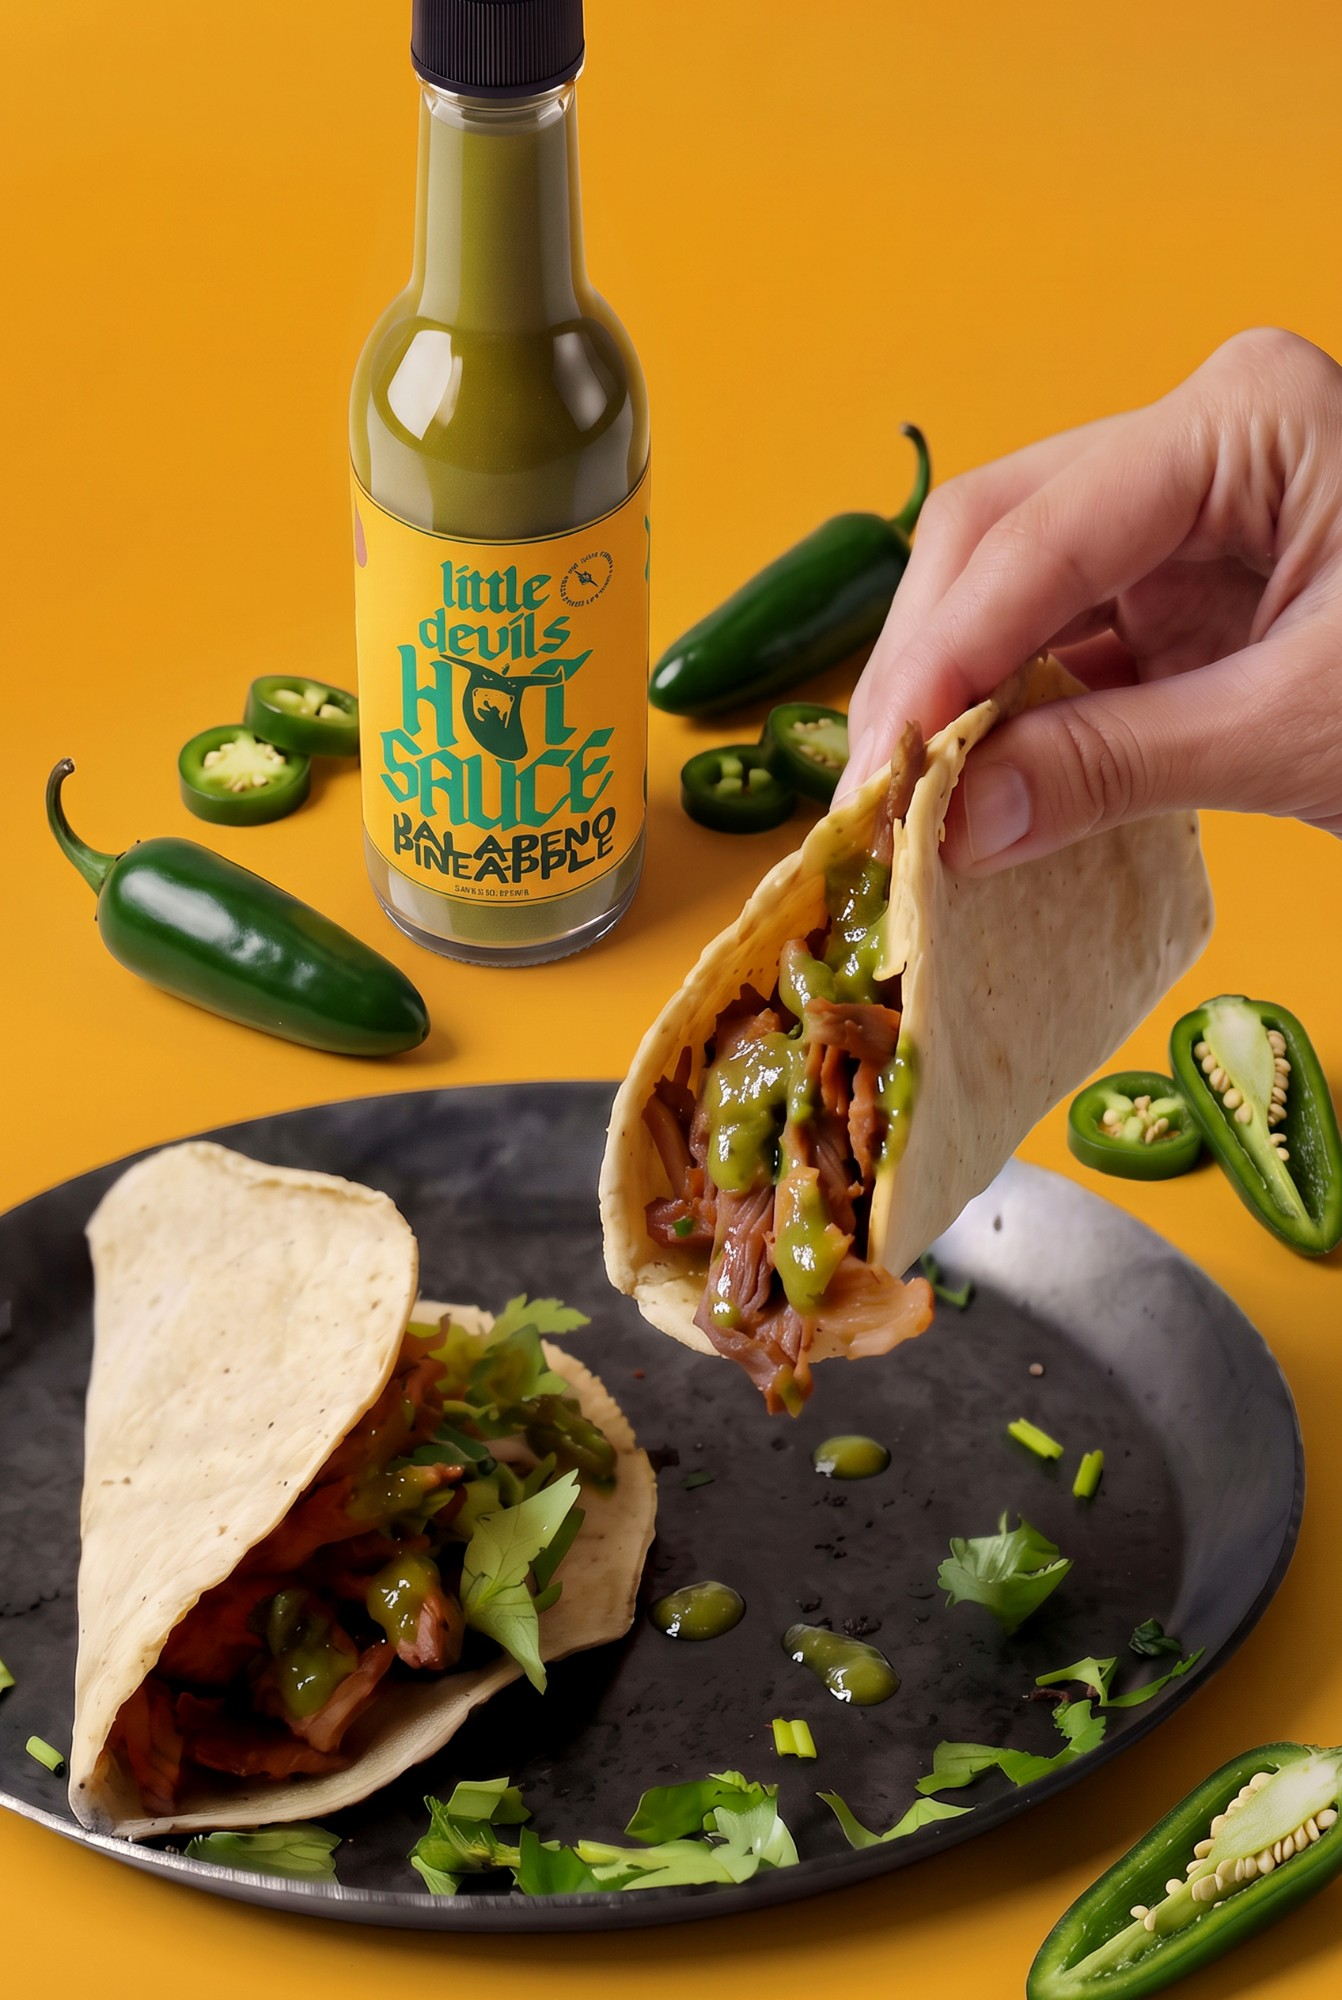
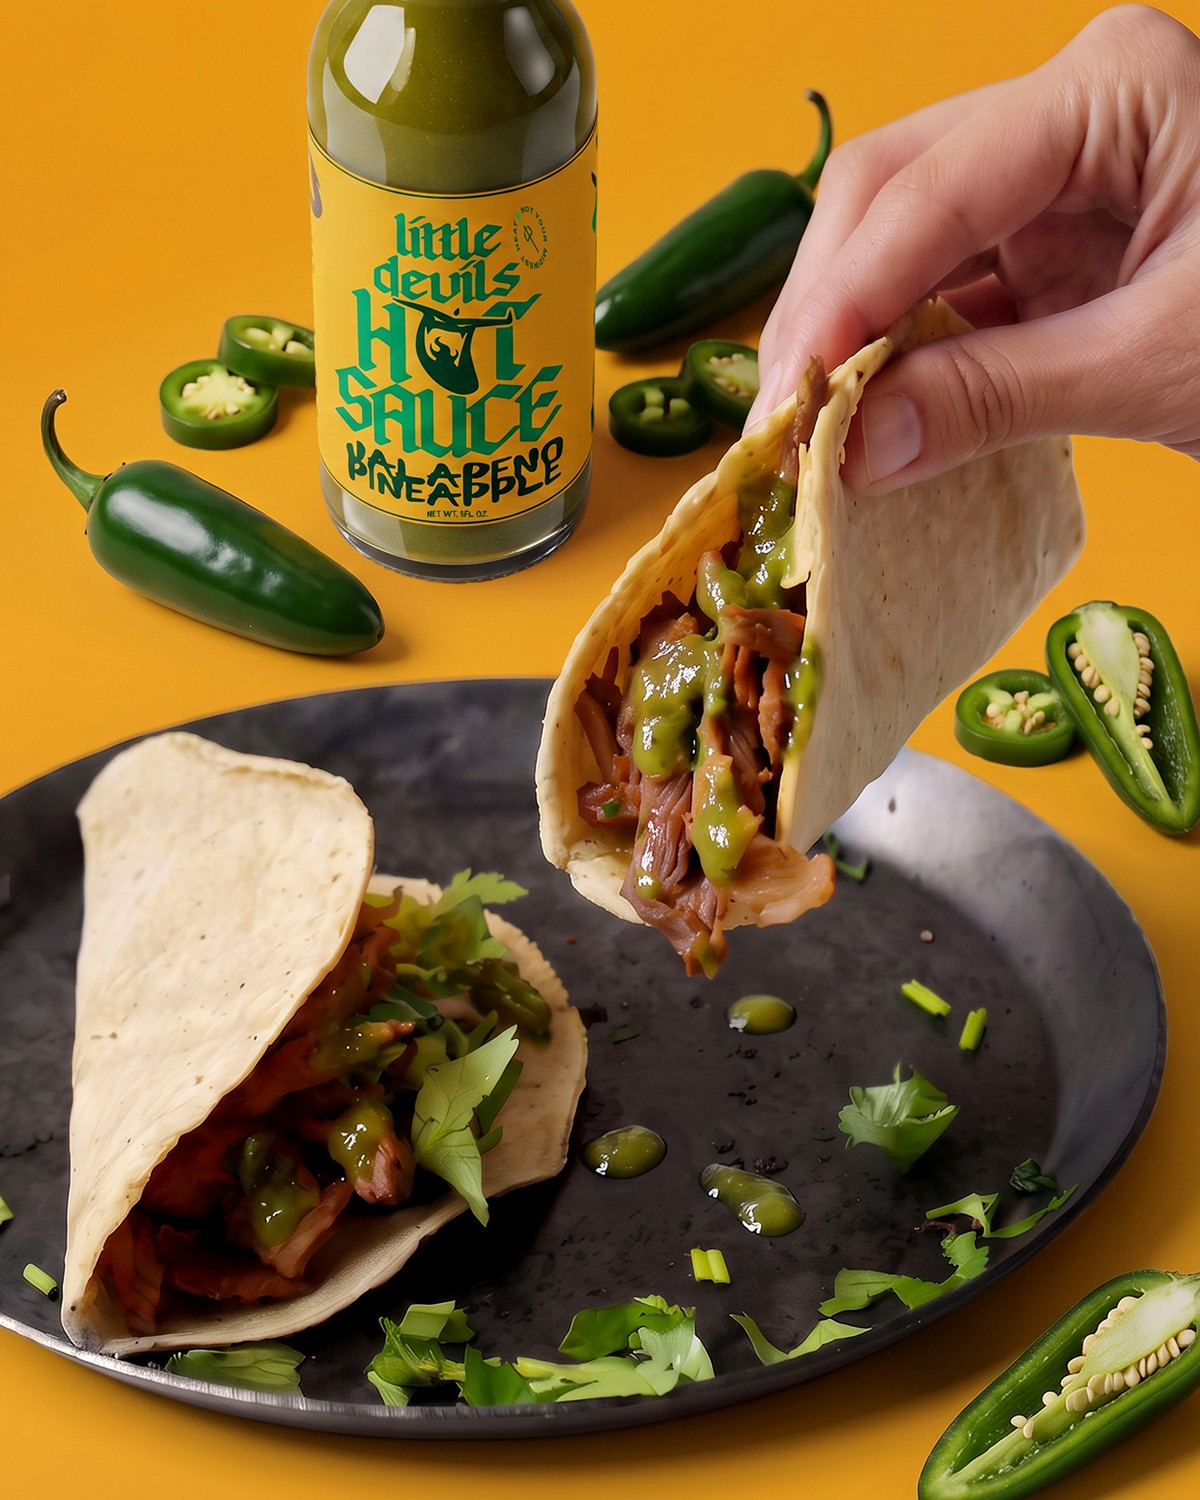
Little Devils: updated Jalapeño pair at 4:5
Claude-Session: https://claude.ai/code/session_015WxX2viJzYVTakY4j3fEPW

diff --git a/src/content/projects/little-devils.md b/src/content/projects/little-devils.md
@@ -63,8 +63,8 @@ gallery:
         alt: "On red, a hand holds up a charred chicken wing while Little Devils Habanero Apple sauce pours over it from the bottle, running down the fingers."
       - image: "../../assets/projects/little-devils/bottles-floating.jpg"
         alt: "Three bottles of Habanero Apple floating on yellow, showing the back panel with heat level and ingredients, the front wordmark, and the deep-red repeat pattern."
-  - type: grid           # Jalapeño Pineapple pair, under the Habanero pair (2:3, so neither bottle is cut)
-    ratio: "2 / 3"
+  - type: grid           # Jalapeño Pineapple pair, under the Habanero pair
+    ratio: "4 / 5"
     images:
       - image: "../../assets/projects/little-devils/taco-jalapeno.jpg"
         alt: "On yellow, a hand lifts a pulled-pork taco dripping green Jalapeño Pineapple sauce off a dark plate, the bottle and sliced jalapeños behind it."
